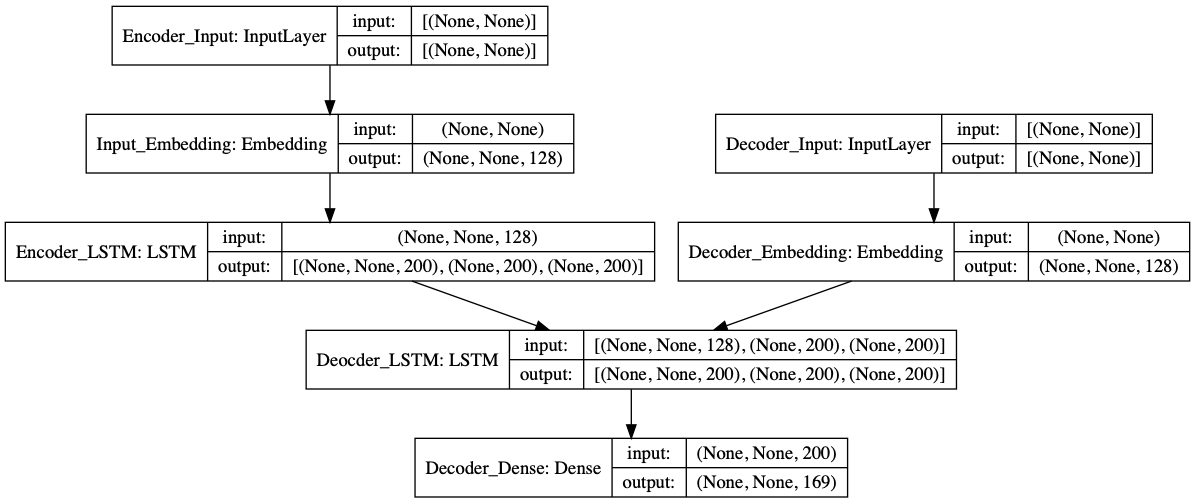
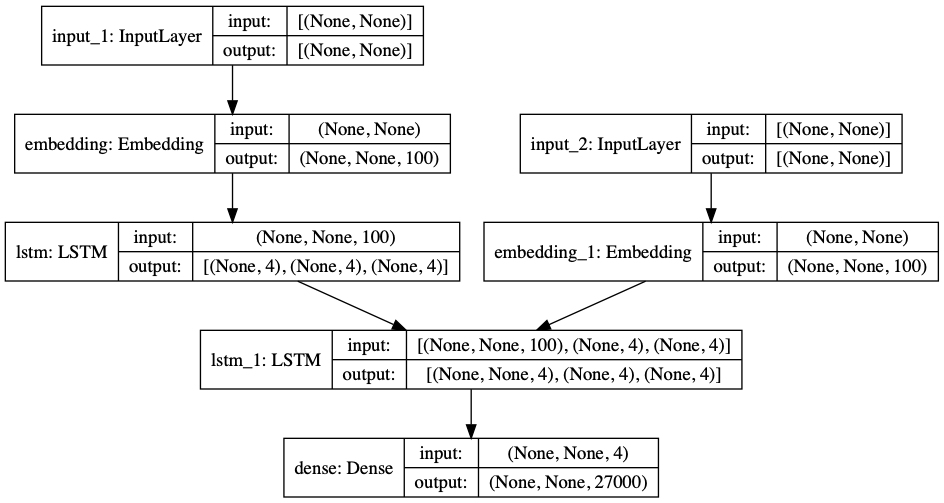
Add fixed model.py and image, move batching generator into DataManager

diff --git a/model/model.py b/model/model.py
@@ -1,52 +1,51 @@
 from tensorflow import keras
 import tensorflow as tf
-import numpy as np
 from loader.dataman import DataManager
 
 
 class NewsSummarizationModel:
-    data = None
-    encoder_shape = None
-    decoder_shape = None
     model = None
-    fixed_vector_dim = 200
-    embedding_dim = 128
+    embedding_dim = None
+    batch_size = None
+    data = None
 
-    def __init__(self, manager: DataManager):
+    def __init__(self, manager: DataManager, embedding_dim=100, batch_size=32):
         self.data = manager
-        self.encoder_shape = {
-            'n': self.data.documents.shape[1],
-            'm': self.data.documents.shape[0],
-        }
-        self.decoder_shape = {
-            'n': self.data.summaries.shape[1],
-            'm': self.data.summaries.shape[0],
-        }
+        self.embedding_dim = embedding_dim
+        self.batch_size = batch_size
 
     def build_model(self):
-        # build encoder
-        enc_in = keras.layers.Input(shape=(None,), name="Encoder_Input")
-        enc_embedding = keras.layers.Embedding(self.data.document_vocab_size, self.embedding_dim, name="Input_Embedding")(enc_in)
-        enc_lstm = keras.layers.LSTM(self.fixed_vector_dim, name="Encoder_LSTM", return_sequences=True, return_state=True)
-        enc_out, h, c = enc_lstm(enc_embedding)
-        enc_state = [h, c]
+        encoder_inputs = keras.layers.Input(shape=(None,))
+        en_x = keras.layers.Embedding(self.data.document_tokenizer.num_words, self.embedding_dim)(encoder_inputs)
+        encoder = keras.layers.LSTM(4, return_state=True)
+        encoder_outputs, state_h, state_c = encoder(en_x)
+        encoder_states = [state_h, state_c]
 
-        # build decoder
-        dec_in = keras.layers.Input(shape=(None,), name="Decoder_Input")
-        dec_embedding = keras.layers.Embedding(self.data.summary_vocab_size, self.embedding_dim, name="Decoder_Embedding")(dec_in)
-        dec_lstm = keras.layers.LSTM(self.fixed_vector_dim, name="Decoder_LSTM", return_sequences=True, return_state=True)
-        dec_lstm_out, _, _ = dec_lstm(dec_in, initial_state=enc_state)
-        dec_dense = keras.layers.Dense(self.decoder_shape['n'], name="Decoder_Dense", activation='softmax')
-        dec_out = dec_dense(dec_lstm_out)
-
-        # create model
-        self.model = keras.Model([enc_in, dec_in], dec_out)
+        decoder_inputs = keras.layers.Input(shape=(None,))
+        dex = keras.layers.Embedding(self.data.summary_tokenizer.num_words, self.embedding_dim)
+        final_dex = dex(decoder_inputs)
+        decoder_lstm = keras.layers.LSTM(4, return_sequences=True, return_state=True)
+        decoder_outputs, _, _ = decoder_lstm(final_dex,
+                                             initial_state=encoder_states)
+        decoder_dense = keras.layers.Dense(data.summary_tokenizer.num_words, activation='softmax')
+        decoder_outputs = decoder_dense(decoder_outputs)
+        self.model = keras.Model([encoder_inputs, decoder_inputs], decoder_outputs)
         self.model.compile(optimizer='rmsprop', loss='categorical_crossentropy', metrics=['acc'])
 
     def train(self):
-        summary = np.array(self.data.summaries)
-        decoder_input = summary[:, 1:]
-        self.model.fit([self.data.documents, decoder_input], self.data.summaries)
+        cb = keras.callbacks.TensorBoard()
+        self.model.fit_generator(
+            data.training_generator(self.batch_size),
+            epochs=5,
+            steps_per_epoch=len(data.documents) // self.batch_size,
+            callbacks=[cb]
+        )
+
+    def plot_model(self, image_path='model.png'):
+        tf.keras.utils.plot_model(self.model, to_file=image_path, show_shapes=True, show_layer_names=True)
+
+    def save(self, path):
+        self.model.save(path)
 
     def view_document_text(self):
         # TODO: translate a sequence of numerical document tokens to actual text
@@ -60,8 +59,7 @@ if __name__ == '__main__':
     data = DataManager()
     model = NewsSummarizationModel(data)
     model.build_model()
-    # tf.keras.utils.plot_model(model.model, to_file='model.png', show_shapes=True, show_layer_names=True)
     model.model.summary()
+    model.plot_model()
     print('training...')
     model.train()
-    # model.model.save('model.h5')

diff --git a/loader/dataman.py b/loader/dataman.py
@@ -1,12 +1,14 @@
 from tensorflow import keras
+import numpy as np
 import os
 import pickle
 
+
 class DataManager:
     documents = None
-    document_tokenizer = None
+    document_tokenizer: keras.preprocessing.text.Tokenizer = None
     summaries = None
-    summary_tokenizer = None
+    summary_tokenizer: keras.preprocessing.text.Tokenizer = None
 
     def __init__(self, saved_dir='../data', data_filename='cnbc_data.pkl', tokenizer_filename='cnbc_tokenizers.pkl'):
         self.load_data(saved_dir, data_filename)
@@ -25,3 +27,25 @@ class DataManager:
         with open(tokenizer_pickle_path, 'rb') as f:
             (self.document_tokenizer, self.summary_tokenizer) = pickle.load(f)
         print('done.')
+
+    def training_generator(self, batch_size=32):
+        cur_i = 0
+        while True:
+            encoder_in = np.zeros(
+                (batch_size, len(self.documents[0])),
+                dtype='int32')
+            decoder_in = np.zeros(
+                (batch_size, len(self.summaries[0])),
+                dtype='int32')
+            decoder_target = np.zeros(
+                (batch_size, len(self.summaries[0]), self.summary_tokenizer.num_words), dtype='int32')
+            for i, (input_text, target_text) in enumerate(
+                    zip(self.documents[cur_i:cur_i + batch_size, :], self.summaries[cur_i:cur_i + batch_size, :])):
+                for t, word in enumerate(input_text):
+                    encoder_in[i, t] = word
+                for t, word in enumerate(target_text):
+                    decoder_in[i, t] = word
+                    if t > 0:
+                        decoder_target[i, t - 1, word] = 1.
+            cur_i += batch_size
+            yield [encoder_in, decoder_in], decoder_target
